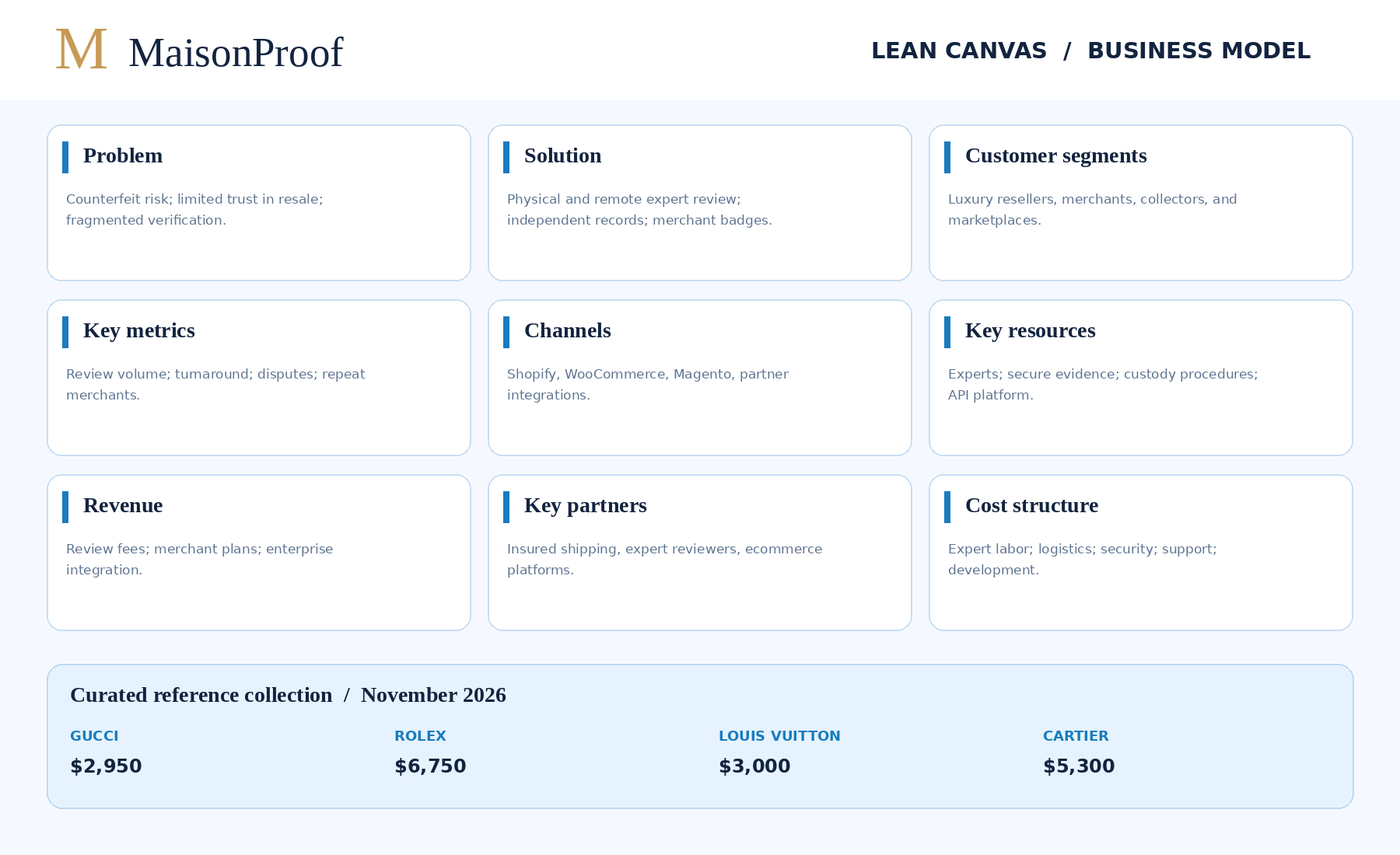
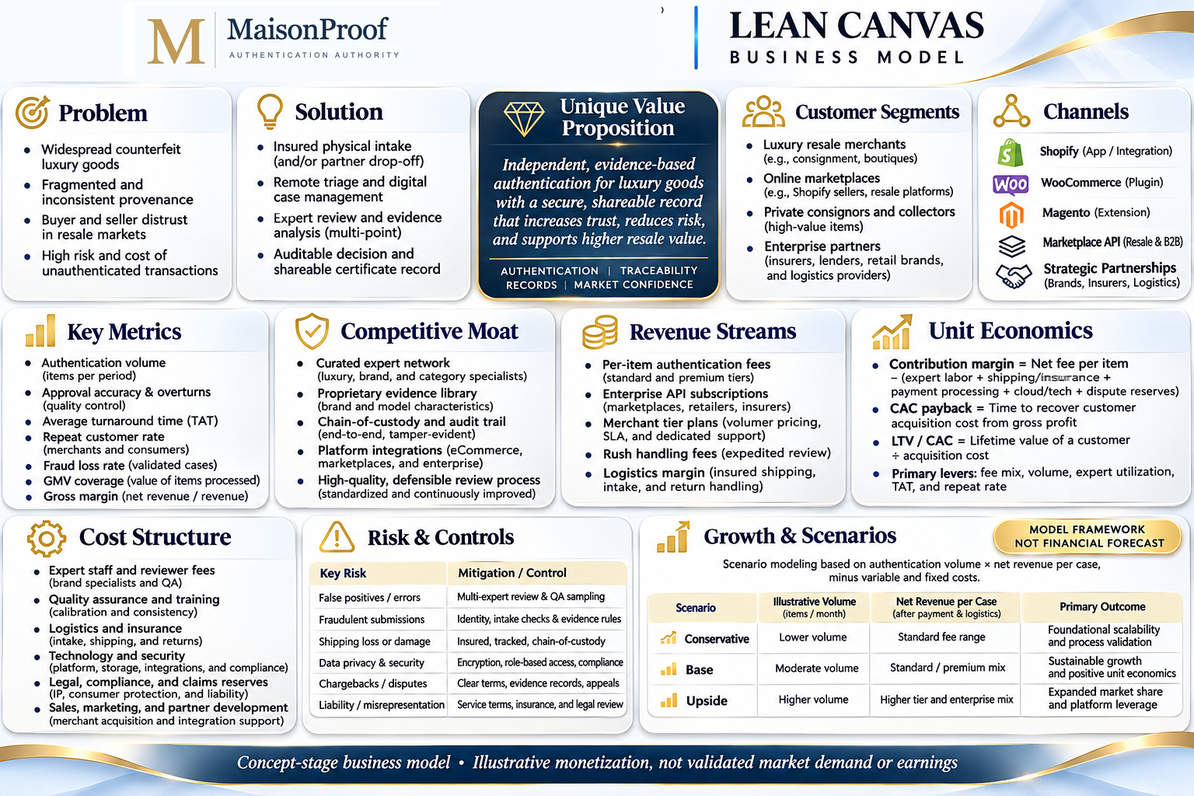
Add files via upload

diff --git a/index.html b/index.html
@@ -21,10 +21,20 @@ section{border-color:#dbe7f5!important}
 a{color:#246ca8}
 input,select,textarea{background:#fff!important;color:#19314f!important;border-color:#bfcfe4!important}
 .heroimage{border-color:#cbdced!important}
+
+/* Reference-only authentication badge; uses the original MaisonProof SVG unchanged. */
+.mp-auth-record-badge{display:flex;align-items:center;justify-content:center;gap:9px;margin:0 12px 10px;padding:9px 10px;border:1px solid #d5e4f3;border-radius:12px;background:#f7fbff;color:#13243f;text-decoration:none;font-size:12px;line-height:1.25;transition:border-color .2s,background .2s}
+.mp-auth-record-badge:hover,.mp-auth-record-badge:focus-visible{background:#eaf5ff;border-color:#197cbe}
+.mp-auth-record-badge img{width:40px!important;height:34px!important;object-fit:contain!important;background:transparent!important;flex:none}
+.mp-auth-record-badge .mp-auth-state{font-weight:700;color:#4d617c}
+.mp-auth-record-badge .mp-auth-link{font-weight:700;color:#197cbe;text-decoration:underline;text-underline-offset:2px}
+
+/* Verification overlays: the original MaisonProof logo SVG is reused unchanged. */
+.mp-product-photo{position:relative;isolation:isolate}.mp-product-photo>img{display:block;width:100%;aspect-ratio:1.12;object-fit:contain;background:#f6faff}.mp-product-overlay{position:absolute;left:8px;right:8px;bottom:8px;display:flex;align-items:center;justify-content:center;gap:8px;padding:5px 8px;border:1px solid #d8b777;border-radius:9px;background:rgba(255,255,255,.97);box-shadow:0 5px 16px #102b4c22;color:#142641!important;text-decoration:none;font-size:10px;line-height:1.15}.mp-product-overlay>img{width:86px;max-width:40%;height:30px;object-fit:contain}.mp-product-overlay span{display:flex;flex-direction:column;gap:2px}.mp-product-overlay b{font-size:11px;letter-spacing:.035em}.mp-product-overlay small{font-size:9px;color:#236aab}.mp-status-positive{border-left:4px solid #1d78b7}.mp-status-pending{border-left:4px solid #8998a8}.mp-demo-records{margin:25px 0 36px}.mp-demo-records h3{font:normal 26px Georgia,serif;color:#142641}.mp-demo-record-grid{display:grid;grid-template-columns:repeat(2,minmax(0,1fr));gap:12px}.mp-demo-record{scroll-margin-top:95px;padding:17px;border:1px solid #cbddeb;border-radius:12px;background:#fff;color:#142641}.mp-demo-record h4{margin:0 0 6px;font-size:16px}.mp-demo-record p{margin:6px 0;color:#405d80}.mp-demo-record small{color:#657b91}.mp-demo-record a{color:#176aa7}.mp-demo-record .mp-demo-status{font-weight:700;color:#155d93}@media(max-width:680px){.mp-demo-record-grid{grid-template-columns:1fr}.mp-product-overlay>img{width:74px}}
 </style><style id="maisonproof-pro-arctic-polish">body{background:#f7fbff!important;color:#152d4c!important} .hero,.panel,.card,.stat{box-shadow:0 12px 35px rgba(29,77,128,.06)!important} a:focus-visible,button:focus-visible{outline:3px solid #2793d2;outline-offset:3px}</style><style id="mp-2026-reference-collection-style">.mp-reference-collection{margin:25px 0 35px}.mp-reference-grid{display:grid;grid-template-columns:repeat(auto-fit,minmax(225px,1fr));gap:16px}.mp-reference-item{background:#fff;border:1px solid #d5e4f3;border-radius:16px;overflow:hidden;color:#13243f;box-shadow:0 9px 26px rgba(20,52,91,.06)}.mp-reference-item img{display:block;width:100%;height:225px;object-fit:cover;background:#f3f7fd}.mp-ref-body{padding:18px}.mp-ref-body strong{font-size:11px;letter-spacing:.16em;color:#197cbe}.mp-ref-body h3{font-family:Georgia,serif;font-size:23px;margin:8px 0}.mp-ref-body p{color:#5d7390;font-size:13px;min-height:34px}.mp-ref-body b{display:block;font-size:23px}.mp-ref-body small{display:block;color:#5d7390;margin:9px 0;font-size:11px}.mp-ref-body a{color:#197cbe;font-size:12px}.mp-reference-note{font-size:13px;color:#5d7390;line-height:1.6;margin:12px 0 20px}</style></head><body>
 <header class="nav"><div class="shell navinner"><a class="brand" href="#top"><img src="assets/maisonproof-logo.svg" alt="MaisonProof — Authentication Authority" class="brand-logo" width="340" height="68"></a><nav class="navlinks" aria-label="Sections"><a href="#vision">Vision</a><a href="#experience">Experience</a><a href="#journeys">Journeys</a><a href="#wireframes">Wireframes</a><a href="#roadmap">Roadmap</a><a href="#library">Documents</a></nav></div></header>
 <main id="top"><div class="hero" id="vision"><div class="shell"><div class="eyebrow">Authentication authority · Product overview</div><h1>Independent trust.<br>Built into the storefront.</h1><p class="lead">MaisonProof is a proposed item-level authentication service for merchants selling luxury goods through their own Shopify, WooCommerce and Magento stores. An approved item earns a live, MaisonProof-controlled verification record and storefront seal.</p><div class="actions"><a class="btn" href="#experience">Explore product vision</a><a class="btn secondary" href="#roadmap">Delivery roadmap</a><a class="btn secondary" href="README.md">Repository README</a></div><span class="tag">Concept and development prototype · Not a live authentication service</span><div class="stats"><div class="stat"><b>02</b><small>Authentication pathways</small></div><div class="stat"><b>10</b><small>Design wireframes</small></div><div class="stat"><b>13</b><small>Planned sprints (0–12)</small></div><div class="stat"><b>52</b><small>Backlog records</small></div></div></div></div>
-<section id="reference-collection" class="mp-reference-collection shell"><div class="eyebrow">Curated luxury / November 2026</div><h2>Reference collection</h2><p class="mp-reference-note">Published US reference prices, not MaisonProof offers. AI concept imagery is not an exact manufacturer photograph; no authentication has occurred.</p><div class="mp-reference-grid"><article class="mp-reference-item"><img loading="lazy" src="assets/products/gucci-jackie-1961.png" alt="Concept rendering of GUCCI Jackie 1961 Medium"><div class="mp-ref-body"><strong>GUCCI</strong><h3>Jackie 1961 Medium</h3><p>Black GG canvas · silver-tone piston closure</p><b>$2,950</b><small>Published US reference price · Unverified concept</small><a href="https://www.gucci.com/us/en/pr/women/handbags/shoulder-bags-for-women/half-moon-bags-for-women/gucci-jackie-1961-medium-shoulder-bag-p-863136FAFV41000" target="_blank" rel="noopener noreferrer">Source / model details ↗</a></div></article><article class="mp-reference-item"><img loading="lazy" src="assets/products/rolex-oyster-perpetual-36.png" alt="Concept rendering of ROLEX Oyster Perpetual 36"><div class="mp-ref-body"><strong>ROLEX</strong><h3>Oyster Perpetual 36</h3><p>Oystersteel · multicoloured Jubilee-motif dial</p><b>$6,750</b><small>Published US reference price · Unverified concept</small><a href="https://www.rolex.com/watches/new-watches/all-models" target="_blank" rel="noopener noreferrer">Source / model details ↗</a></div></article><article class="mp-reference-item"><img loading="lazy" src="assets/products/lv-speedy-bandouliere-25.png" alt="Concept rendering of LOUIS VUITTON Speedy Bandoulière 25"><div class="mp-ref-body"><strong>LOUIS VUITTON</strong><h3>Speedy Bandoulière 25</h3><p>Black Monogram Empreinte · grained leather</p><b>$3,000</b><small>Published US reference price · Unverified concept</small><a href="https://us.louisvuitton.com/eng-us/products/speedy-bandouliere-25-nvprod3160026v/M59273" target="_blank" rel="noopener noreferrer">Source / model details ↗</a></div></article><article class="mp-reference-item"><img loading="lazy" src="assets/products/cartier-love-small.png" alt="Concept rendering of CARTIER LOVE Bracelet · Small"><div class="mp-ref-body"><strong>CARTIER</strong><h3>LOVE Bracelet · Small</h3><p>18K yellow gold · screw-motif bracelet</p><b>$5,300</b><small>Published US reference price · Unverified concept</small><a href="https://maisonassay.com/articles/cartier-love-bracelet-price-history" target="_blank" rel="noopener noreferrer">Source / model details ↗</a></div></article></div></section><section id="experience"><div class="shell"><div class="sectionhead"><div class="eyebrow">01 / Product and commercial vision</div><h2>One trust layer. Existing storefronts.</h2><p>Two original visual references, preserved without alteration, illustrate the intended customer experience and business model.</p></div><div class="featured"><article class="visual"><a href="assets/maisonproof-magento-storefront-concept.png" target="_blank" rel="noopener"><img src="assets/maisonproof-magento-storefront-concept.png" alt="Storefront &amp; verification experience" loading="lazy"></a><div class="body"><h3>Storefront &amp; verification experience</h3><p>Magento storefront concept, verified item seal, insured shipment and remote authentication routes.</p></div></article><article class="visual"><a href="assets/maisonproof-mvp-lean-canvas-infographic.png" target="_blank" rel="noopener"><img src="assets/maisonproof-mvp-lean-canvas-infographic.png" alt="MVP Lean Canvas" loading="lazy"></a><div class="body"><h3>MVP Lean Canvas</h3><p>Business model, customer segments, subscription and review-fee hypotheses, and illustrative impact scenarios.</p></div></article></div><p class="note">Images are illustrative. Product authentication, brand relationships, insurance options and domain ownership are not established. Financial scenarios and claimed conversion or fraud improvements in the business graphic are unvalidated hypotheses, not forecasts.</p></div></section>
+<section id="reference-collection" class="mp-reference-collection shell"><div class="eyebrow">Curated luxury / November 2026</div><h2>Reference collection</h2><p class="mp-reference-note">Published US reference prices, not MaisonProof offers. AI concept imagery is not an exact manufacturer photograph; no authentication has occurred.</p><div class="mp-reference-grid"><article class="mp-reference-item mp-status-demo-verified"><div class="mp-product-photo"><img loading="lazy" src="assets/products/gucci-jackie-1961.png" alt="Illustrative image of GUCCI Jackie 1961 Medium"><a class="mp-product-overlay mp-status-positive" href="prototype/index.html#demo-record-gucci-jackie-1961" aria-label="✓ DEMO VERIFIED: open illustrative MaisonProof status record"><img src="assets/maisonproof-logo.svg" alt="MaisonProof"><span><b>✓ DEMO VERIFIED</b><small>VIEW DEMO RECORD ↗</small></span></a></div><div class="mp-ref-body"><strong>GUCCI</strong><h3>Jackie 1961 Medium</h3><p>Sand and brown GG canvas · piston closure</p><b>$2,950</b><small>US published reference price · Illustrative verified status only · Concept listing</small><a href="https://www.gucci.com/us/en/pr/women/handbags/shoulder-bags-for-women/half-moon-bags-for-women/gucci-jackie-1961-medium-shoulder-bag-p-863136FAFV29651" target="_blank" rel="noopener noreferrer">Official model / price reference ↗</a></div></article><article class="mp-reference-item mp-status-unverified"><div class="mp-product-photo"><img loading="lazy" src="assets/products/rolex-oyster-perpetual-36.png" alt="Illustrative image of ROLEX Oyster Perpetual 36"><a class="mp-product-overlay mp-status-pending" href="prototype/index.html#demo-record-rolex-oyster-perpetual-36" aria-label="○ NOT VERIFIED: open illustrative MaisonProof status record"><img src="assets/maisonproof-logo.svg" alt="MaisonProof"><span><b>○ NOT VERIFIED</b><small>VIEW DEMO RECORD ↗</small></span></a></div><div class="mp-ref-body"><strong>ROLEX</strong><h3>Oyster Perpetual 36</h3><p>Oystersteel · multicoloured Jubilee-motif dial · ref. 126000</p><b>$6,750</b><small>US published reference price · Not authenticated · Concept listing</small><a href="https://www.rolex.com/en-us/watches/oyster-perpetual/m126000-0016" target="_blank" rel="noopener noreferrer">Official model / price reference ↗</a></div></article><article class="mp-reference-item mp-status-demo-verified"><div class="mp-product-photo"><img loading="lazy" src="assets/products/lv-speedy-bandouliere-25.png" alt="Illustrative image of LOUIS VUITTON Speedy Bandoulière 25"><a class="mp-product-overlay mp-status-positive" href="prototype/index.html#demo-record-lv-speedy-bandouliere-25" aria-label="✓ DEMO VERIFIED: open illustrative MaisonProof status record"><img src="assets/maisonproof-logo.svg" alt="MaisonProof"><span><b>✓ DEMO VERIFIED</b><small>VIEW DEMO RECORD ↗</small></span></a></div><div class="mp-ref-body"><strong>LOUIS VUITTON</strong><h3>Speedy Bandoulière 25</h3><p>Monogram canvas · natural cowhide trim · ref. M46977</p><b>$1,980</b><small>US published reference price · Illustrative verified status only · Concept listing</small><a href="https://us.louisvuitton.com/eng-us/products/speedy-25-monogram-nvprod5320019v/M46977" target="_blank" rel="noopener noreferrer">Official model / price reference ↗</a></div></article><article class="mp-reference-item mp-status-unverified"><div class="mp-product-photo"><img loading="lazy" src="assets/products/cartier-love-small.png" alt="Illustrative image of CARTIER LOVE Bracelet · Small"><a class="mp-product-overlay mp-status-pending" href="prototype/index.html#demo-record-cartier-love-small" aria-label="○ NOT VERIFIED: open illustrative MaisonProof status record"><img src="assets/maisonproof-logo.svg" alt="MaisonProof"><span><b>○ NOT VERIFIED</b><small>VIEW DEMO RECORD ↗</small></span></a></div><div class="mp-ref-body"><strong>CARTIER</strong><h3>LOVE Bracelet · Small</h3><p>18K yellow gold · screw-motif bracelet</p><b>$5,500</b><small>US published reference price · Not authenticated · Concept listing</small><a href="https://editorialist.com/p/cartier-love-small-18ct-yellow-gold-bracelet-16cm-33729693/" target="_blank" rel="noopener noreferrer">Official model / price reference ↗</a></div></article></div></section><div class="mp-demo-records shell"><h3>Illustrative authentication records</h3><p>Demo only: no physical goods were submitted, inspected, or certified by MaisonProof. “Demo verified” shows the approved-state interface, not an actual authentication decision.</p><div class="mp-demo-record-grid"><section class="mp-demo-record" id="demo-record-gucci-jackie-1961"><h4>GUCCI Jackie 1961 Medium</h4><span class="mp-demo-status">Demo verified</span><p>Illustrative approval: sample expert review and evidence trail. No real item was inspected.</p><small>Case: MP-DEMO-GUCCI-JACKIE-1961 · No certificate issued</small><p><a href="https://www.gucci.com/us/en/pr/women/handbags/shoulder-bags-for-women/half-moon-bags-for-women/gucci-jackie-1961-medium-shoulder-bag-p-863136FAFV29651" target="_blank" rel="noopener noreferrer">Manufacturer or retailer product reference ↗</a></p></section><section class="mp-demo-record" id="demo-record-rolex-oyster-perpetual-36"><h4>ROLEX Oyster Perpetual 36</h4><span class="mp-demo-status">Not verified</span><p>No MaisonProof inspection or approval recorded; example listing only.</p><small>Case: MP-DEMO-ROLEX-OYSTER-PERPETUAL-36 · No certificate issued</small><p><a href="https://www.rolex.com/en-us/watches/oyster-perpetual/m126000-0016" target="_blank" rel="noopener noreferrer">Manufacturer or retailer product reference ↗</a></p></section><section class="mp-demo-record" id="demo-record-lv-speedy-bandouliere-25"><h4>LOUIS VUITTON Speedy Bandoulière 25</h4><span class="mp-demo-status">Demo verified</span><p>Illustrative approval: sample physical intake and reviewer decision. No real item was inspected.</p><small>Case: MP-DEMO-LV-SPEEDY-BANDOULIERE-25 · No certificate issued</small><p><a href="https://us.louisvuitton.com/eng-us/products/speedy-25-monogram-nvprod5320019v/M46977" target="_blank" rel="noopener noreferrer">Manufacturer or retailer product reference ↗</a></p></section><section class="mp-demo-record" id="demo-record-cartier-love-small"><h4>CARTIER LOVE Bracelet · Small</h4><span class="mp-demo-status">Not verified</span><p>No MaisonProof inspection or approval recorded; third-party retail price reference.</p><small>Case: MP-DEMO-CARTIER-LOVE-SMALL · No certificate issued</small><p><a href="https://editorialist.com/p/cartier-love-small-18ct-yellow-gold-bracelet-16cm-33729693/" target="_blank" rel="noopener noreferrer">Manufacturer or retailer product reference ↗</a></p></section></div></div><section id="experience"><div class="shell"><div class="sectionhead"><div class="eyebrow">01 / Product and commercial vision</div><h2>One trust layer. Existing storefronts.</h2><p>Two original visual references, preserved without alteration, illustrate the intended customer experience and business model.</p></div><div class="featured"><article class="visual"><a href="assets/maisonproof-magento-storefront-concept.png" target="_blank" rel="noopener"><img src="assets/maisonproof-magento-storefront-concept.png" alt="Storefront &amp; verification experience" loading="lazy"></a><div class="body"><h3>Storefront &amp; verification experience</h3><p>Magento storefront concept, verified item seal, insured shipment and remote authentication routes.</p></div></article><article class="visual"><a href="assets/maisonproof-mvp-lean-canvas-infographic.png" target="_blank" rel="noopener"><img src="assets/maisonproof-mvp-lean-canvas-infographic.png" alt="MVP Lean Canvas" loading="lazy"></a><div class="body"><h3>MVP Lean Canvas</h3><p>Business model, customer segments, subscription and review-fee hypotheses, and illustrative impact scenarios.</p></div></article></div><p class="note">Images are illustrative. Product authentication, brand relationships, insurance options and domain ownership are not established. Financial scenarios and claimed conversion or fraud improvements in the business graphic are unvalidated hypotheses, not forecasts.</p></div></section>
 <section id="journeys"><div class="shell"><div class="sectionhead"><div class="eyebrow">02 / Authentication pathways</div><h2>Evidence reviewed. Decisions controlled.</h2><p>Merchants choose the appropriate evidence route. Neither route independently grants a green badge: MaisonProof must approve the exact item.</p></div><div class="pathgrid"><article class="panel"><div class="tag">Path 01</div><h3>Insured shipment-based inspection</h3><p>Secure intake, shipping and approved insurance options, carrier tracking, chain of custody, condition capture, expert physical inspection, and return logistics. Availability and coverage depend on future integrations and terms.</p><a href="project-management/operations/SHIPPING_INSURANCE.md">Shipping & insurance requirements →</a></article><article class="panel"><div class="tag">Path 02</div><h3>Guided remote authentication</h3><p>Existing certificates, photos and provenance evidence enter a case portal. Reviewers can request video, recordings with consent, chat, close-ups, and additional correspondence; inconclusive cases can escalate to physical inspection.</p><a href="WORKFLOWS.md">Case workflow →</a></article></div><h3 style="margin-top:35px">Approval sequence</h3><div class="flow"><div class="panel"><b>01</b><p>Submit item and select route</p></div><div class="panel"><b>02</b><p>Collect and validate evidence</p></div><div class="panel"><b>03</b><p>Qualified MaisonProof review</p></div><div class="panel"><b>04</b><p>Item-specific approval record</p></div><div class="panel"><b>05</b><p>Live storefront badge and public lookup</p></div></div><p class="note">Only current approved records activate the green checkmark. Pending, rejected, disputed, expired or revoked records must not show an authenticated badge.</p></div></section>
 <section id="wireframes"><div class="shell"><div class="sectionhead"><div class="eyebrow">03 / Design inventory</div><h2>Ten screens. One coherent experience.</h2><p>Editable SVGs can be imported into Figma. These are design handoff assets, not a native Figma file or completed application.</p></div><div class="wiregrid"><article class="visual"><a href="project-management/design/wireframes/01-storefront.svg" target="_blank" rel="noopener"><img src="project-management/design/wireframes/01-storefront.svg" alt="Authenticated storefront" loading="lazy"></a><div class="body"><h3>Authenticated storefront</h3><p>Catalog, status, and approved-item badges</p></div></article><article class="visual"><a href="project-management/design/wireframes/02-route-selection.svg" target="_blank" rel="noopener"><img src="project-management/design/wireframes/02-route-selection.svg" alt="Choose authentication route" loading="lazy"></a><div class="body"><h3>Choose authentication route</h3><p>Route selection between shipment and guided remote evidence</p></div></article><article class="visual"><a href="project-management/design/wireframes/03-shipment.svg" target="_blank" rel="noopener"><img src="project-management/design/wireframes/03-shipment.svg" alt="Insured shipment intake" loading="lazy"></a><div class="body"><h3>Insured shipment intake</h3><p>Shipment case intake, insurance options, custody requirements</p></div></article><article class="visual"><a href="project-management/design/wireframes/04-remote.svg" target="_blank" rel="noopener"><img src="project-management/design/wireframes/04-remote.svg" alt="Guided remote review" loading="lazy"></a><div class="body"><h3>Guided remote review</h3><p>Remote document, video, chat, and follow-up evidence</p></div></article><article class="visual"><a href="project-management/design/wireframes/05-reviewer.svg" target="_blank" rel="noopener"><img src="project-management/design/wireframes/05-reviewer.svg" alt="Reviewer console" loading="lazy"></a><div class="body"><h3>Reviewer console</h3><p>Reviewer queue and approval workflow</p></div></article><article class="visual"><a href="project-management/design/wireframes/06-public-record.svg" target="_blank" rel="noopener"><img src="project-management/design/wireframes/06-public-record.svg" alt="Public verification record" loading="lazy"></a><div class="body"><h3>Public verification record</h3><p>Public item-specific approval, evidence summary, and status</p></div></article><article class="visual"><a href="project-management/design/wireframes/07-merchant-dashboard.svg" target="_blank" rel="noopener"><img src="project-management/design/wireframes/07-merchant-dashboard.svg" alt="Merchant dashboard" loading="lazy"></a><div class="body"><h3>Merchant dashboard</h3><p>Merchant case status and catalog integrations</p></div></article><article class="visual"><a href="project-management/design/wireframes/08-admin.svg" target="_blank" rel="noopener"><img src="project-management/design/wireframes/08-admin.svg" alt="Trust operations" loading="lazy"></a><div class="body"><h3>Trust operations</h3><p>Review operations, disputes, and oversight</p></div></article><article class="visual"><a href="project-management/design/wireframes/09-mobile-product.svg" target="_blank" rel="noopener"><img src="project-management/design/wireframes/09-mobile-product.svg" alt="Mobile product experience" loading="lazy"></a><div class="body"><h3>Mobile product experience</h3><p>Responsive product authentication badge</p></div></article><article class="visual"><a href="project-management/design/wireframes/10-analytics.svg" target="_blank" rel="noopener"><img src="project-management/design/wireframes/10-analytics.svg" alt="Merchant analytics" loading="lazy"></a><div class="body"><h3>Merchant analytics</h3><p>Merchant analytics and conversion measurement</p></div></article></div><div class="actions"><a class="btn secondary" href="project-management/design/FIGMA_HANDOFF.md">Figma handoff</a><a class="btn secondary" href="project-management/design/tokens.json">Design tokens</a><a class="btn secondary" href="project-management/design/DESIGN_SYSTEM.md">Design system</a></div></div></section>
 <section id="roadmap"><div class="shell"><div class="sectionhead"><div class="eyebrow">04 / Delivery roadmap</div><h2>From discovery to controlled pilot.</h2><p>Illustrative two-week sprint cadence, with explicit acceptance and governance gates. Dates and resourcing require approval.</p></div><div class="tablewrap"><table><thead><tr><th>Sprint</th><th>Theme</th><th>Deliverable</th><th>Exit gate</th></tr></thead><tbody><tr><td><a href="project-management/delivery/sprints/SPRINT_00.md">0</a></td><td>Discovery / kickoff</td><td>charter, stakeholders, baseline, brand audit</td><td>sponsor approval</td></tr><tr><td><a href="project-management/delivery/sprints/SPRINT_01.md">1</a></td><td>Research / UX</td><td>interviews, journeys, Figma-ready wireframes</td><td>usability review</td></tr><tr><td><a href="project-management/delivery/sprints/SPRINT_02.md">2</a></td><td>Trust policy / identity</td><td>authentication SOP, merchant roles</td><td>legal/trust approval</td></tr><tr><td><a href="project-management/delivery/sprints/SPRINT_03.md">3</a></td><td>Case engine</td><td>states, audit, secure intake</td><td>threat model</td></tr><tr><td><a href="project-management/delivery/sprints/SPRINT_04.md">4</a></td><td>Remote evidence</td><td>uploads, consent, media, chat</td><td>privacy QA</td></tr><tr><td><a href="project-management/delivery/sprints/SPRINT_05.md">5</a></td><td>Reviewer console</td><td>evidence queue, requests, decision draft</td><td>reviewer dry run</td></tr><tr><td><a href="project-management/delivery/sprints/SPRINT_06.md">6</a></td><td>Shipment workflow</td><td>quotes, insurance disclosures, custody</td><td>partner sandbox</td></tr><tr><td><a href="project-management/delivery/sprints/SPRINT_07.md">7</a></td><td>Certificates</td><td>signer, expiry, dispute/revocation</td><td>adversarial tests</td></tr><tr><td><a href="project-management/delivery/sprints/SPRINT_08.md">8</a></td><td>WooCommerce + public lookup</td><td>live badge, fail-closed status</td><td>UAT signoff</td></tr><tr><td><a href="project-management/delivery/sprints/SPRINT_09.md">9</a></td><td>Shopify</td><td>theme/app adapter, app compliance</td><td>sandbox pass</td></tr><tr><td><a href="project-management/delivery/sprints/SPRINT_10.md">10</a></td><td>Magento + billing</td><td>module, subscriptions, per-case fees</td><td>integration pass</td></tr><tr><td><a href="project-management/delivery/sprints/SPRINT_11.md">11</a></td><td>Pilot</td><td>limited merchants, support, telemetry</td><td>quality thresholds</td></tr><tr><td><a href="project-management/delivery/sprints/SPRINT_12.md">12</a></td><td>Hardening + launch decision</td><td>DR, accessibility, pen test, runbooks</td><td>go/no-go</td></tr></tbody></table></div><div class="actions"><a class="btn secondary" href="project-management/delivery/backlog.csv">Full backlog</a><a class="btn secondary" href="project-management/delivery/RAID.md">Risks and dependencies</a><a class="btn secondary" href="project-management/quality/RELEASE_CHECKLIST.md">Launch checklist</a></div></div></section>

diff --git a/assets/products/IMAGE_SOURCES_AND_STATUS.md b/assets/products/IMAGE_SOURCES_AND_STATUS.md
@@ -1,0 +1,10 @@
+# Product imagery and MaisonProof verification status
+
+The four storefront listings represent real manufacturer models with reference prices, not MaisonProof inventory. The website uses external product photography from Gucci, Louis Vuitton and Cartier, and editorial photography for the Rolex, with the original local concept illustrations retained as offline fallbacks. External images may be blocked or removed by their hosts; permission for commercial republication is not established.
+
+- Gucci Jackie 1961 Medium: Gucci manufacturer image; $2,950 US list price. https://www.gucci.com/us/en/pr/women/handbags/shoulder-bags-for-women/half-moon-bags-for-women/gucci-jackie-1961-medium-shoulder-bag-p-863136FAFV41000
+- Rolex Oyster Perpetual 36, Jubilee motif: Esquire editorial image; $6,750 US Rolex list price. https://www.rolex.com/en-us/watches/oyster-perpetual/all-models
+- Louis Vuitton Speedy Bandoulière 25 Black Monogram Empreinte: Louis Vuitton manufacturer image; $3,000 US list price. https://us.louisvuitton.com/eng-us/products/speedy-bandouliere-25-nvprod3160026v/M58951
+- Cartier LOVE Bracelet Small Yellow Gold: Cartier manufacturer image; reference price $5,300 from original catalog (not independently reconfirmed here).
+
+**MaisonProof status for all four: NOT VERIFIED.** View Record links lead to a demo record, not proof of item authentication. No sale, resale, inventory or endorsement by any manufacturer is implied.
